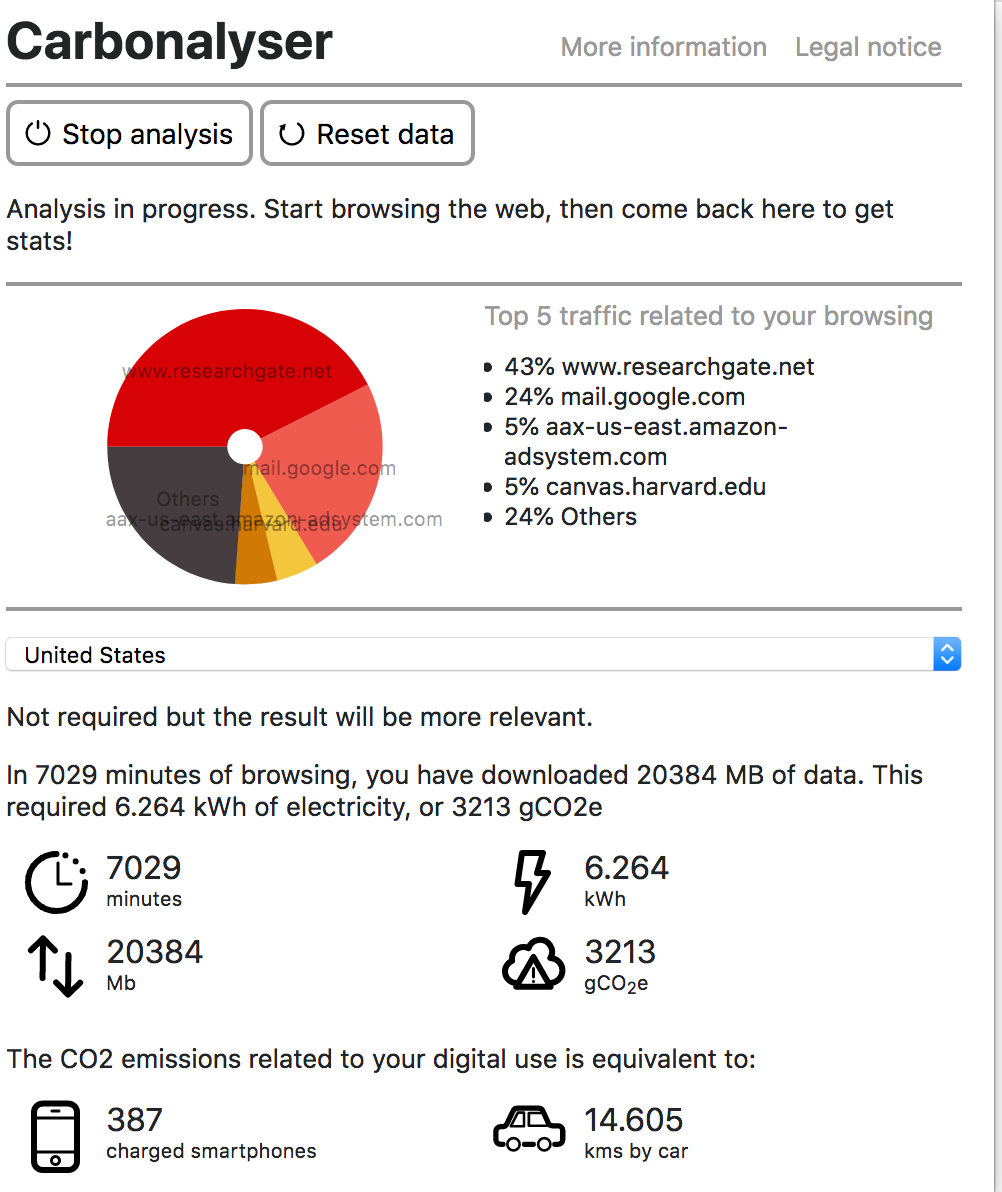
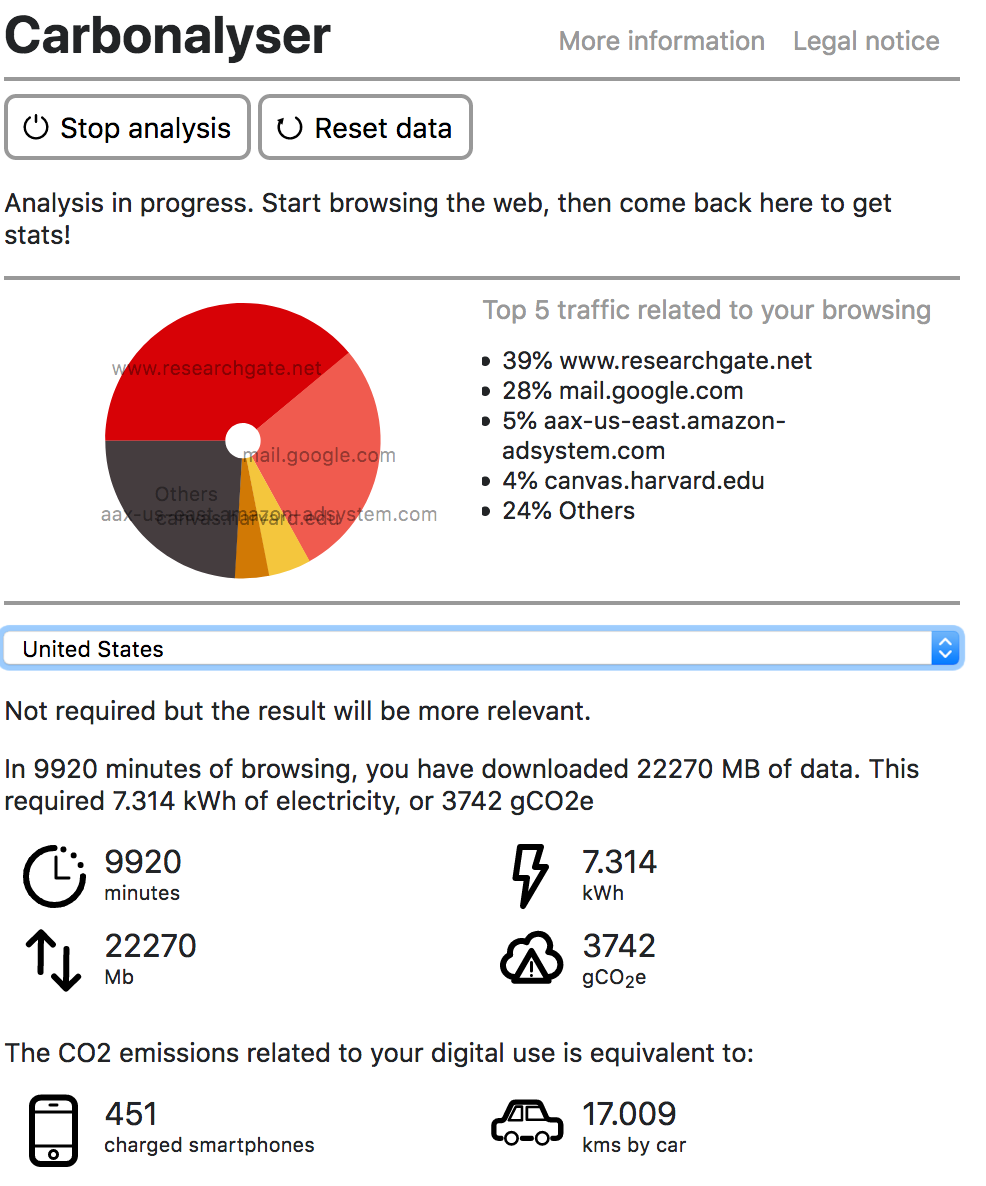
updated carbonalyser

diff --git a/index.html b/index.html
@@ -57,8 +57,8 @@
       <img src="images/carbonalyser1.png" style="max-width:30%;" alt="Screenshot of Carbonalyser analysis">
 
         <p>
-          In roughly five days worth of browsing, I downloaded approximately 17410 mb of data.
-          The top 5 sites I trafficked were: 43% www.researchgate.com, 24% mail.google.com, 5% aax-us-east.amazon.adsystem.com, 5% canvas and 24% others. Notably, Storymap is not among my top 5 sites.
+          In roughly seven days worth of browsing, I downloaded approximately 22270 mb of data.
+          The top 5 sites I trafficked were: 39% www.researchgate.com, 28% mail.google.com, 5% aax-us-east.amazon.adsystem.com, 4% canvas and 24% others. Notably, Storymap is not among my top 5 sites.
            Truthfully, I did not always use Firefox when working on my Storymap; however, I certainly had the impression that I had used Firefox for Storymap more than anything else.
           Why then was it absent from the results? As I dug deeper into Carboanalyser’s documentation, I realized that the top 5 sites trafficked correlate not to usage traffic, but to data traffic.
           Thus, while I may have used Storymap far more than I used www.researchgate.com, www.researchgate.com had a much larger data footprint.
@@ -78,14 +78,12 @@
             <summary><b>Sources</b></summary>
             <h4>Primary Sources</h4>
               <ol>
-                <li> Arrowsmith, Aaron. "Composite: Map of India." 2014. https://www.davidrumsey.com/luna/servlet/detail/RUMSEY~8~1~233589~5514095:Composite--Map-of-India-?sort=Pub_List_No_InitialSort%2CPub_Date%2CPub_List_No%2CSeries_No&qvq=q:india%201790;sort:Pub_List_No_InitialSort%2CPub_Date%2CPub_List_No%2CSeries_No;lc:RUMSEY~8~1&mi=0&trs=19 </li>
+                <li> Arrowsmith, Aaron. "Composite: Map of India." 2014. https://www.davidrumsey.com/luna/servlet/detail/RUMSEY~8~1~233589~5514095:Composite--Map-of-India-?sort=Pub_List_No_InitialSort%2CPub_Date%2CPub_List_No%2CSeries_No&qvq=q:india%201790;sort:Pub_List_No_InitialSort%2CPub_Date%2CPub_List_No%2CSeries_No;lc:RUMSEY~8~1&mi=0&trs=19
                     <ul>
                         The map is lisceneced under a Creative Commons Liscence and thus may be reproduced or transmittted, but not for commerical use.
                     </ul>
-                </li>
                 <li>
-                    The Calcutta Review, Volume 61. University of Calcutta. 1861-01-01. p. 291. </li>
-                </li>
+                    The Calcutta Review, Volume 61. University of Calcutta. 1861-01-01. p. 291. 
              </ol>
              <h4>Secondary Sources</h4>
              <h5> Texts </h5>
